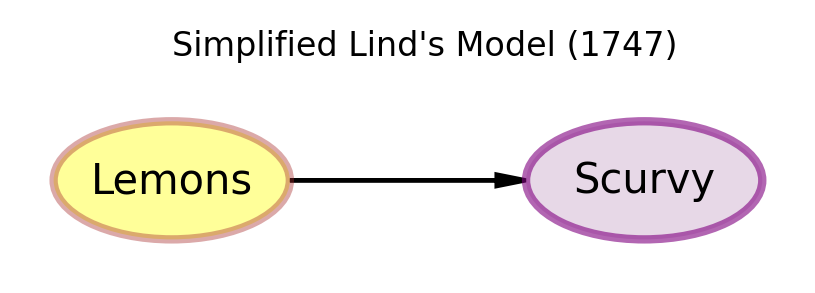
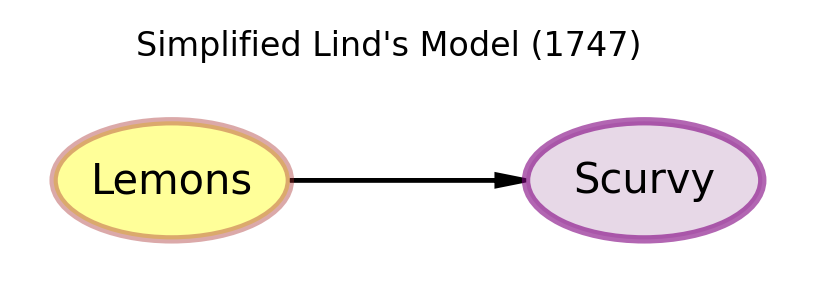
Added DAG plots

Changed region(s): [[0.1534, 0.0922, 0.8282, 0.215]]

diff --git a/index.html b/index.html
@@ -216,7 +216,7 @@ Ready to create beautiful DAGs!</code></pre>
 <span id="cb3-9"><a href="#cb3-9" aria-hidden="true" tabindex="-1"></a>pgm <span class="op">=</span> daft.PGM()</span>
 <span id="cb3-10"><a href="#cb3-10" aria-hidden="true" tabindex="-1"></a></span>
 <span id="cb3-11"><a href="#cb3-11" aria-hidden="true" tabindex="-1"></a><span class="co"># Add a title to the DAG</span></span>
-<span id="cb3-12"><a href="#cb3-12" aria-hidden="true" tabindex="-1"></a>pgm.add_text(label<span class="op">=</span><span class="st">"Simplified Lind's Model (1747)"</span>, x<span class="op">=</span><span class="dv">0</span>, y<span class="op">=</span><span class="fl">0.5</span>, fontsize<span class="op">=</span><span class="dv">8</span>)</span>
+<span id="cb3-12"><a href="#cb3-12" aria-hidden="true" tabindex="-1"></a>pgm.add_text(label<span class="op">=</span><span class="st">"Simplified Lind's Model (1747)"</span>, x<span class="op">=-</span><span class="fl">0.15</span>, y<span class="op">=</span><span class="fl">0.5</span>, fontsize<span class="op">=</span><span class="dv">8</span>)</span>
 <span id="cb3-13"><a href="#cb3-13" aria-hidden="true" tabindex="-1"></a></span>
 <span id="cb3-14"><a href="#cb3-14" aria-hidden="true" tabindex="-1"></a>pgm.add_node(<span class="st">"lemons"</span>, <span class="st">"Lemons"</span>, <span class="dv">0</span>, <span class="dv">0</span>, aspect <span class="op">=</span> <span class="dv">2</span>, scale <span class="op">=</span> <span class="dv">1</span>, plot_params<span class="op">=</span>{<span class="st">"facecolor"</span>: <span class="st">"yellow"</span>, <span class="st">"edgecolor"</span>: <span class="st">"brown"</span>, <span class="st">"linewidth"</span>: <span class="dv">2</span>, <span class="st">'alpha'</span>: <span class="fl">0.4</span>})</span>
 <span id="cb3-15"><a href="#cb3-15" aria-hidden="true" tabindex="-1"></a></span>
@@ -253,7 +253,7 @@ Ready to create beautiful DAGs!</code></pre>
 <span id="cb4-9"><a href="#cb4-9" aria-hidden="true" tabindex="-1"></a>pgm <span class="op">=</span> daft.PGM()</span>
 <span id="cb4-10"><a href="#cb4-10" aria-hidden="true" tabindex="-1"></a></span>
 <span id="cb4-11"><a href="#cb4-11" aria-hidden="true" tabindex="-1"></a><span class="co"># Add a title to the DAG</span></span>
-<span id="cb4-12"><a href="#cb4-12" aria-hidden="true" tabindex="-1"></a>pgm.add_text(label<span class="op">=</span><span class="st">"Misguided Belief - Bacteria Theory (Late 19th Century)"</span>, x<span class="op">=-</span><span class="fl">0.5</span>, y<span class="op">=</span><span class="fl">2.5</span>, fontsize<span class="op">=</span><span class="dv">10</span>)</span>
+<span id="cb4-12"><a href="#cb4-12" aria-hidden="true" tabindex="-1"></a>pgm.add_text(label<span class="op">=</span><span class="st">"Misguided Belief - Bacteria Theory (Late 19th Century)"</span>, x<span class="op">=-</span><span class="fl">0.65</span>, y<span class="op">=</span><span class="fl">2.5</span>, fontsize<span class="op">=</span><span class="dv">10</span>)</span>
 <span id="cb4-13"><a href="#cb4-13" aria-hidden="true" tabindex="-1"></a></span>
 <span id="cb4-14"><a href="#cb4-14" aria-hidden="true" tabindex="-1"></a>pgm.add_node(<span class="st">"acid"</span>, <span class="st">"Acid"</span>, <span class="dv">0</span>, <span class="dv">2</span>, aspect <span class="op">=</span> <span class="fl">3.2</span>, scale <span class="op">=</span> <span class="dv">1</span>, plot_params<span class="op">=</span>{<span class="st">"facecolor"</span>: <span class="st">"silver"</span>, <span class="st">"edgecolor"</span>: <span class="st">"black"</span>, <span class="st">"linewidth"</span>: <span class="dv">2</span>, <span class="st">'alpha'</span>: <span class="fl">0.4</span>})</span>
 <span id="cb4-15"><a href="#cb4-15" aria-hidden="true" tabindex="-1"></a></span>
@@ -261,8 +261,8 @@ Ready to create beautiful DAGs!</code></pre>
 <span id="cb4-17"><a href="#cb4-17" aria-hidden="true" tabindex="-1"></a></span>
 <span id="cb4-18"><a href="#cb4-18" aria-hidden="true" tabindex="-1"></a>pgm.add_node(<span class="st">"scurvy"</span>, <span class="st">"Scurvy"</span>, <span class="dv">3</span>, <span class="dv">0</span>, aspect <span class="op">=</span> <span class="fl">3.2</span>, scale <span class="op">=</span> <span class="dv">1</span>, plot_params<span class="op">=</span>{<span class="st">"facecolor"</span>: <span class="st">"thistle"</span>, <span class="st">"edgecolor"</span>: <span class="st">"purple"</span>, <span class="st">"linewidth"</span>: <span class="dv">2</span>, <span class="st">'alpha'</span>: <span class="fl">0.7</span>})</span>
 <span id="cb4-19"><a href="#cb4-19" aria-hidden="true" tabindex="-1"></a></span>
-<span id="cb4-20"><a href="#cb4-20" aria-hidden="true" tabindex="-1"></a>pgm.add_edge(<span class="st">"acid"</span>, <span class="st">"bif"</span>)</span>
-<span id="cb4-21"><a href="#cb4-21" aria-hidden="true" tabindex="-1"></a>pgm.add_edge(<span class="st">"bif"</span>, <span class="st">"scurvy"</span>)</span>
+<span id="cb4-20"><a href="#cb4-20" aria-hidden="true" tabindex="-1"></a>pgm.add_edge(<span class="st">"acid"</span>, <span class="st">"bif"</span>, plot_params<span class="op">=</span>{<span class="st">"linewidth"</span>: <span class="dv">2</span>, <span class="st">"color"</span>: <span class="st">"gray"</span>})</span>
+<span id="cb4-21"><a href="#cb4-21" aria-hidden="true" tabindex="-1"></a>pgm.add_edge(<span class="st">"bif"</span>, <span class="st">"scurvy"</span>, plot_params<span class="op">=</span>{<span class="st">"linewidth"</span>: <span class="dv">2</span>, <span class="st">"color"</span>: <span class="st">"gray"</span>})</span>
 <span id="cb4-22"><a href="#cb4-22" aria-hidden="true" tabindex="-1"></a></span>
 <span id="cb4-23"><a href="#cb4-23" aria-hidden="true" tabindex="-1"></a>pgm.render()</span>
 <span id="cb4-24"><a href="#cb4-24" aria-hidden="true" tabindex="-1"></a></span>
@@ -270,7 +270,7 @@ Ready to create beautiful DAGs!</code></pre>
 <div class="cell-output cell-output-display">
 <div>
 <figure class="figure">
-<p><img src="index_files/figure-html/dag-2-misguided-output-1.png" id="dag-2-misguided" width="646" height="387" class="figure-img"></p>
+<p><img src="index_files/figure-html/dag-2-misguided-output-1.png" id="dag-2-misguided" width="629" height="387" class="figure-img"></p>
 </figure>
 </div>
 </div>
@@ -293,13 +293,13 @@ Ready to create beautiful DAGs!</code></pre>
 <span id="cb5-9"><a href="#cb5-9" aria-hidden="true" tabindex="-1"></a>pgm <span class="op">=</span> daft.PGM()</span>
 <span id="cb5-10"><a href="#cb5-10" aria-hidden="true" tabindex="-1"></a></span>
 <span id="cb5-11"><a href="#cb5-11" aria-hidden="true" tabindex="-1"></a><span class="co"># Add a title to the DAG</span></span>
-<span id="cb5-12"><a href="#cb5-12" aria-hidden="true" tabindex="-1"></a>pgm.add_text(label<span class="op">=</span><span class="st">"Simplified Modern Understanding (1930s onwards)"</span>, x<span class="op">=-</span><span class="fl">0.5</span>, y<span class="op">=</span><span class="fl">2.5</span>, fontsize<span class="op">=</span><span class="dv">10</span>)</span>
+<span id="cb5-12"><a href="#cb5-12" aria-hidden="true" tabindex="-1"></a>pgm.add_text(label<span class="op">=</span><span class="st">"Simplified Modern Understanding (1930s onwards)"</span>, x<span class="op">=-</span><span class="fl">0.3</span>, y<span class="op">=</span><span class="fl">2.5</span>, fontsize<span class="op">=</span><span class="dv">10</span>)</span>
 <span id="cb5-13"><a href="#cb5-13" aria-hidden="true" tabindex="-1"></a></span>
-<span id="cb5-14"><a href="#cb5-14" aria-hidden="true" tabindex="-1"></a>pgm.add_node(<span class="st">"vitc"</span>, <span class="st">"Vitamin C"</span>, <span class="dv">0</span>, <span class="dv">2</span>, aspect <span class="op">=</span> <span class="fl">3.4</span>, scale <span class="op">=</span> <span class="dv">1</span>, plot_params<span class="op">=</span>{<span class="st">"facecolor"</span>: <span class="st">"lightblue"</span>, <span class="st">"edgecolor"</span>: <span class="st">"navy"</span>, <span class="st">"linewidth"</span>: <span class="dv">2</span>, <span class="st">'alpha'</span>: <span class="fl">0.6</span>})</span>
+<span id="cb5-14"><a href="#cb5-14" aria-hidden="true" tabindex="-1"></a>pgm.add_node(<span class="st">"vitc"</span>, <span class="st">"Vitamin C"</span>, <span class="fl">0.5</span>, <span class="dv">2</span>, aspect <span class="op">=</span> <span class="fl">3.4</span>, scale <span class="op">=</span> <span class="dv">1</span>, plot_params<span class="op">=</span>{<span class="st">"facecolor"</span>: <span class="st">"lightblue"</span>, <span class="st">"edgecolor"</span>: <span class="st">"navy"</span>, <span class="st">"linewidth"</span>: <span class="dv">2</span>, <span class="st">'alpha'</span>: <span class="fl">0.6</span>})</span>
 <span id="cb5-15"><a href="#cb5-15" aria-hidden="true" tabindex="-1"></a></span>
-<span id="cb5-16"><a href="#cb5-16" aria-hidden="true" tabindex="-1"></a>pgm.add_node(<span class="st">"colSyn"</span>, <span class="st">"Collagen Synthesis"</span>, <span class="fl">1.5</span>, <span class="dv">1</span>, aspect <span class="op">=</span> <span class="fl">3.8</span>, scale <span class="op">=</span> <span class="dv">1</span>, plot_params<span class="op">=</span>{<span class="st">"facecolor"</span>: <span class="st">"orange"</span>, <span class="st">"edgecolor"</span>: <span class="st">"brown"</span>, <span class="st">"linewidth"</span>: <span class="dv">2</span>, <span class="st">'alpha'</span>: <span class="fl">0.6</span>})</span>
+<span id="cb5-16"><a href="#cb5-16" aria-hidden="true" tabindex="-1"></a>pgm.add_node(<span class="st">"colSyn"</span>, <span class="st">"Collagen Synthesis"</span>, <span class="dv">2</span>, <span class="dv">1</span>, aspect <span class="op">=</span> <span class="fl">3.8</span>, scale <span class="op">=</span> <span class="dv">1</span>, plot_params<span class="op">=</span>{<span class="st">"facecolor"</span>: <span class="st">"orange"</span>, <span class="st">"edgecolor"</span>: <span class="st">"brown"</span>, <span class="st">"linewidth"</span>: <span class="dv">2</span>, <span class="st">'alpha'</span>: <span class="fl">0.6</span>})</span>
 <span id="cb5-17"><a href="#cb5-17" aria-hidden="true" tabindex="-1"></a></span>
-<span id="cb5-18"><a href="#cb5-18" aria-hidden="true" tabindex="-1"></a>pgm.add_node(<span class="st">"scurvy"</span>, <span class="st">"Scurvy"</span>, <span class="dv">3</span>, <span class="dv">0</span>, aspect <span class="op">=</span> <span class="fl">3.4</span>, scale <span class="op">=</span> <span class="dv">1</span>, plot_params<span class="op">=</span>{<span class="st">"facecolor"</span>: <span class="st">"thistle"</span>, <span class="st">"edgecolor"</span>: <span class="st">"purple"</span>, <span class="st">"linewidth"</span>: <span class="dv">2</span>, <span class="st">'alpha'</span>: <span class="fl">0.7</span>})</span>
+<span id="cb5-18"><a href="#cb5-18" aria-hidden="true" tabindex="-1"></a>pgm.add_node(<span class="st">"scurvy"</span>, <span class="st">"Scurvy"</span>, <span class="fl">3.5</span>, <span class="dv">0</span>, aspect <span class="op">=</span> <span class="fl">3.4</span>, scale <span class="op">=</span> <span class="dv">1</span>, plot_params<span class="op">=</span>{<span class="st">"facecolor"</span>: <span class="st">"thistle"</span>, <span class="st">"edgecolor"</span>: <span class="st">"purple"</span>, <span class="st">"linewidth"</span>: <span class="dv">2</span>, <span class="st">'alpha'</span>: <span class="fl">0.7</span>})</span>
 <span id="cb5-19"><a href="#cb5-19" aria-hidden="true" tabindex="-1"></a></span>
 <span id="cb5-20"><a href="#cb5-20" aria-hidden="true" tabindex="-1"></a>pgm.add_edge(<span class="st">"vitc"</span>, <span class="st">"colSyn"</span>)</span>
 <span id="cb5-21"><a href="#cb5-21" aria-hidden="true" tabindex="-1"></a>pgm.add_edge(<span class="st">"colSyn"</span>, <span class="st">"scurvy"</span>)</span>
@@ -310,7 +310,7 @@ Ready to create beautiful DAGs!</code></pre>
 <div class="cell-output cell-output-display">
 <div>
 <figure class="figure">
-<p><img src="index_files/figure-html/dag-3-1928-output-1.png" id="dag-3-1928" width="612" height="387" class="figure-img"></p>
+<p><img src="index_files/figure-html/dag-3-1928-output-1.png" id="dag-3-1928" width="608" height="387" class="figure-img"></p>
 </figure>
 </div>
 </div>
